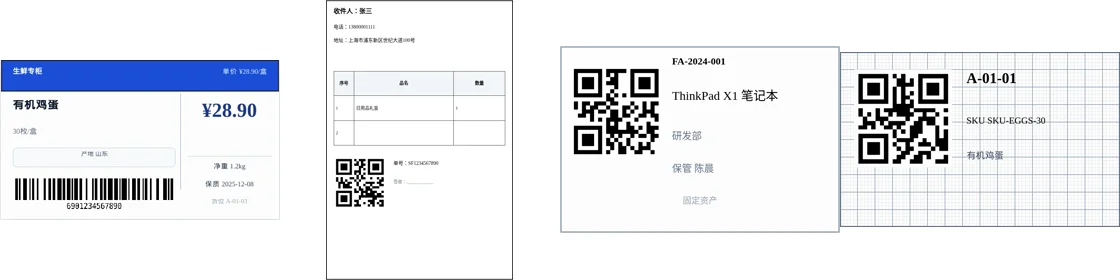
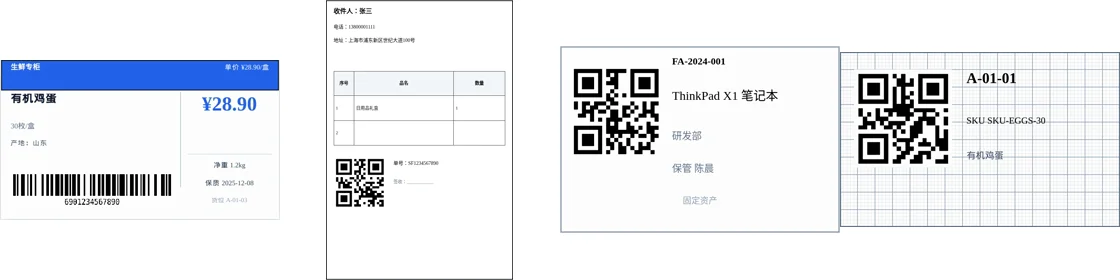
fix(tpl_retail_shelf_70): tighten header, fix 产地 line, brand blue
Flush header bar/text to label top, remove origin pill for plain
「产地：{{产地}}」 copy, use site primary #2563eb on bar and price.
Re-capture sample-price-tag and hero marketing WebPs.

diff --git a/src/utils/templates.js b/src/utils/templates.js
@@ -202,24 +202,23 @@ export const BUILTIN_TEMPLATES = [
     margin: zeroMargin,
     layout: { ...singleLayout },
     components: [
-      rect('tpl_retail_shelf_70-r1', '顶栏', { left: 0, top: 0, width: 70, height: 8, fill: '#1d4ed8' }),
-      text('tpl_retail_shelf_70-h1', '顶栏左', { left: 3, top: 1.8, width: 28, height: 4, text: '生鲜专柜', fontSize: 7, fontWeight: 'bold', fill: '#ffffff' }),
+      rect('tpl_retail_shelf_70-r1', '顶栏', { left: 0, top: 0, width: 70, height: 7.5, fill: '#2563eb' }),
+      text('tpl_retail_shelf_70-h1', '顶栏左', { left: 2.5, top: 0.8, width: 28, height: 3.5, text: '生鲜专柜', fontSize: 7, fontWeight: 'bold', fill: '#ffffff' }),
       text('tpl_retail_shelf_70-h2', '顶栏右', {
-        left: 32, top: 2, width: 35, height: 4, text: '单价 ¥{{单价}}/{{单位}}', fontSize: 6.5, fill: '#e0f2fe', textAlign: 'right'
+        left: 30, top: 0.9, width: 37.5, height: 3.5, text: '单价 ¥{{单价}}/{{单位}}', fontSize: 6.5, fill: '#ffffff', textAlign: 'right'
       }),
-      line('tpl_retail_shelf_70-v1', '分栏线', { left: 45.2, top: 8.5, width: 24, stroke: '#cbd5e1', strokeWidth: 0.25, angle: 90 }),
-      text('tpl_retail_shelf_70-c1', '品名', { left: 3, top: 10, width: 41, height: 7, text: '{{品名}}', fontSize: 10.5, fontWeight: 'bold', fill: '#0f172a' }),
-      text('tpl_retail_shelf_70-c2', '规格', { left: 3, top: 17, width: 41, height: 4.5, text: '{{规格}}', fontSize: 7, fill: '#64748b' }),
-      rect('tpl_retail_shelf_70-r2', '产地框', { left: 3, top: 22, width: 41, height: 5, fill: '#f8fafc', stroke: '#e2e8f0', strokeWidth: 0.2, rx: 1 }),
-      text('tpl_retail_shelf_70-c3', '产地', { left: 4, top: 23, width: 39, height: 3.5, text: '产地 {{产地}}', fontSize: 6, fill: '#475569', textAlign: 'center' }),
-      barcode('tpl_retail_shelf_70-c4', '条码', { left: 3, top: 29, width: 41, height: 9, binding: '条码' }),
+      line('tpl_retail_shelf_70-v1', '分栏线', { left: 45.2, top: 7.8, width: 24, stroke: '#cbd5e1', strokeWidth: 0.25, angle: 90 }),
+      text('tpl_retail_shelf_70-c1', '品名', { left: 2.5, top: 8.5, width: 41, height: 7, text: '{{品名}}', fontSize: 10.5, fontWeight: 'bold', fill: '#0f172a' }),
+      text('tpl_retail_shelf_70-c2', '规格', { left: 2.5, top: 15.5, width: 41, height: 4, text: '{{规格}}', fontSize: 7, fill: '#64748b' }),
+      text('tpl_retail_shelf_70-c3', '产地', { left: 2.5, top: 20, width: 41, height: 3.5, text: '产地：{{产地}}', fontSize: 6.5, fill: '#475569' }),
+      barcode('tpl_retail_shelf_70-c4', '条码', { left: 2.5, top: 28, width: 41, height: 9, binding: '条码' }),
       text('tpl_retail_shelf_70-c5', '价格', {
-        left: 46, top: 10, width: 23, height: 12, text: '¥{{价格}}', fontSize: 19, fontWeight: 'bold', fill: '#1e3a8a', textAlign: 'center'
+        left: 46, top: 8.5, width: 23, height: 12, text: '¥{{价格}}', fontSize: 19, fontWeight: 'bold', fill: '#2563eb', textAlign: 'center'
       }),
-      line('tpl_retail_shelf_70-hr', '价区分隔', { left: 47, top: 24, width: 21, stroke: '#e2e8f0', strokeWidth: 0.2 }),
-      text('tpl_retail_shelf_70-c6', '净重', { left: 46, top: 26, width: 23, height: 4, text: '净重 {{净重}}', fontSize: 6.5, fill: '#334155', textAlign: 'center' }),
-      text('tpl_retail_shelf_70-c7', '保质期', { left: 46, top: 30.5, width: 23, height: 4, text: '保质 {{保质期}}', fontSize: 6.5, fill: '#334155', textAlign: 'center' }),
-      text('tpl_retail_shelf_70-c8', '货位', { left: 46, top: 35, width: 23, height: 3.5, text: '货位 {{货位}}', fontSize: 6, fill: '#94a3b8', textAlign: 'center' })
+      line('tpl_retail_shelf_70-hr', '价区分隔', { left: 47, top: 23.5, width: 21, stroke: '#e2e8f0', strokeWidth: 0.2 }),
+      text('tpl_retail_shelf_70-c6', '净重', { left: 46, top: 25.5, width: 23, height: 4, text: '净重 {{净重}}', fontSize: 6.5, fill: '#334155', textAlign: 'center' }),
+      text('tpl_retail_shelf_70-c7', '保质期', { left: 46, top: 30, width: 23, height: 4, text: '保质 {{保质期}}', fontSize: 6.5, fill: '#334155', textAlign: 'center' }),
+      text('tpl_retail_shelf_70-c8', '货位', { left: 46, top: 34.5, width: 23, height: 3.5, text: '货位 {{货位}}', fontSize: 6, fill: '#94a3b8', textAlign: 'center' })
     ]
   },
   {
